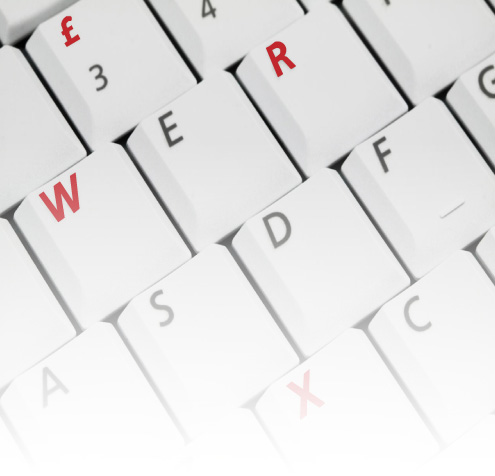
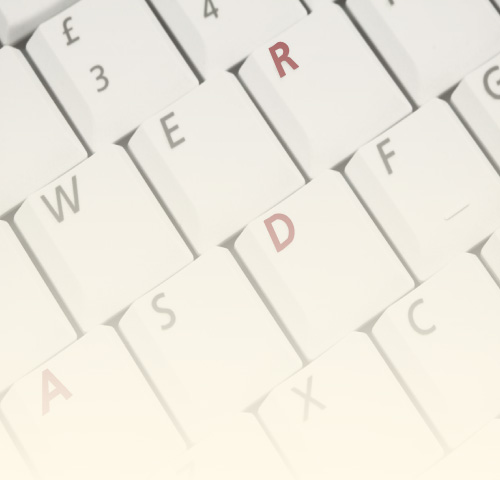
colorcheck

diff --git a/css/index.css b/css/index.css
@@ -14,6 +14,7 @@ body {
 	font-size: 1em;
 	position: relative;
 	text-align: center;
+	background-color: #FFF9E9;
 }
 
 html,
@@ -196,7 +197,7 @@ header {
 	position: relative;
 	padding-top: 50px;
 	padding-bottom: 25px;
-	background: url('../img/backgrounds/keyboard.jpg');
+	background: url('../img/backgrounds/keyboard2.jpg');
 	background-repeat: no-repeat;
 	background-size: 100% 50%;
 }
@@ -206,7 +207,7 @@ header h1 {
 	font-weight: 900;
 	font-size: 12.5vw;
 	letter-spacing: 1px;
-	color: rgb(75,75,75);
+	color: rgb(25,25,25);
 	text-shadow: .5px .25px 0px rgb(125,0,0);
 	margin-bottom: -25px;
 	cursor: default;
